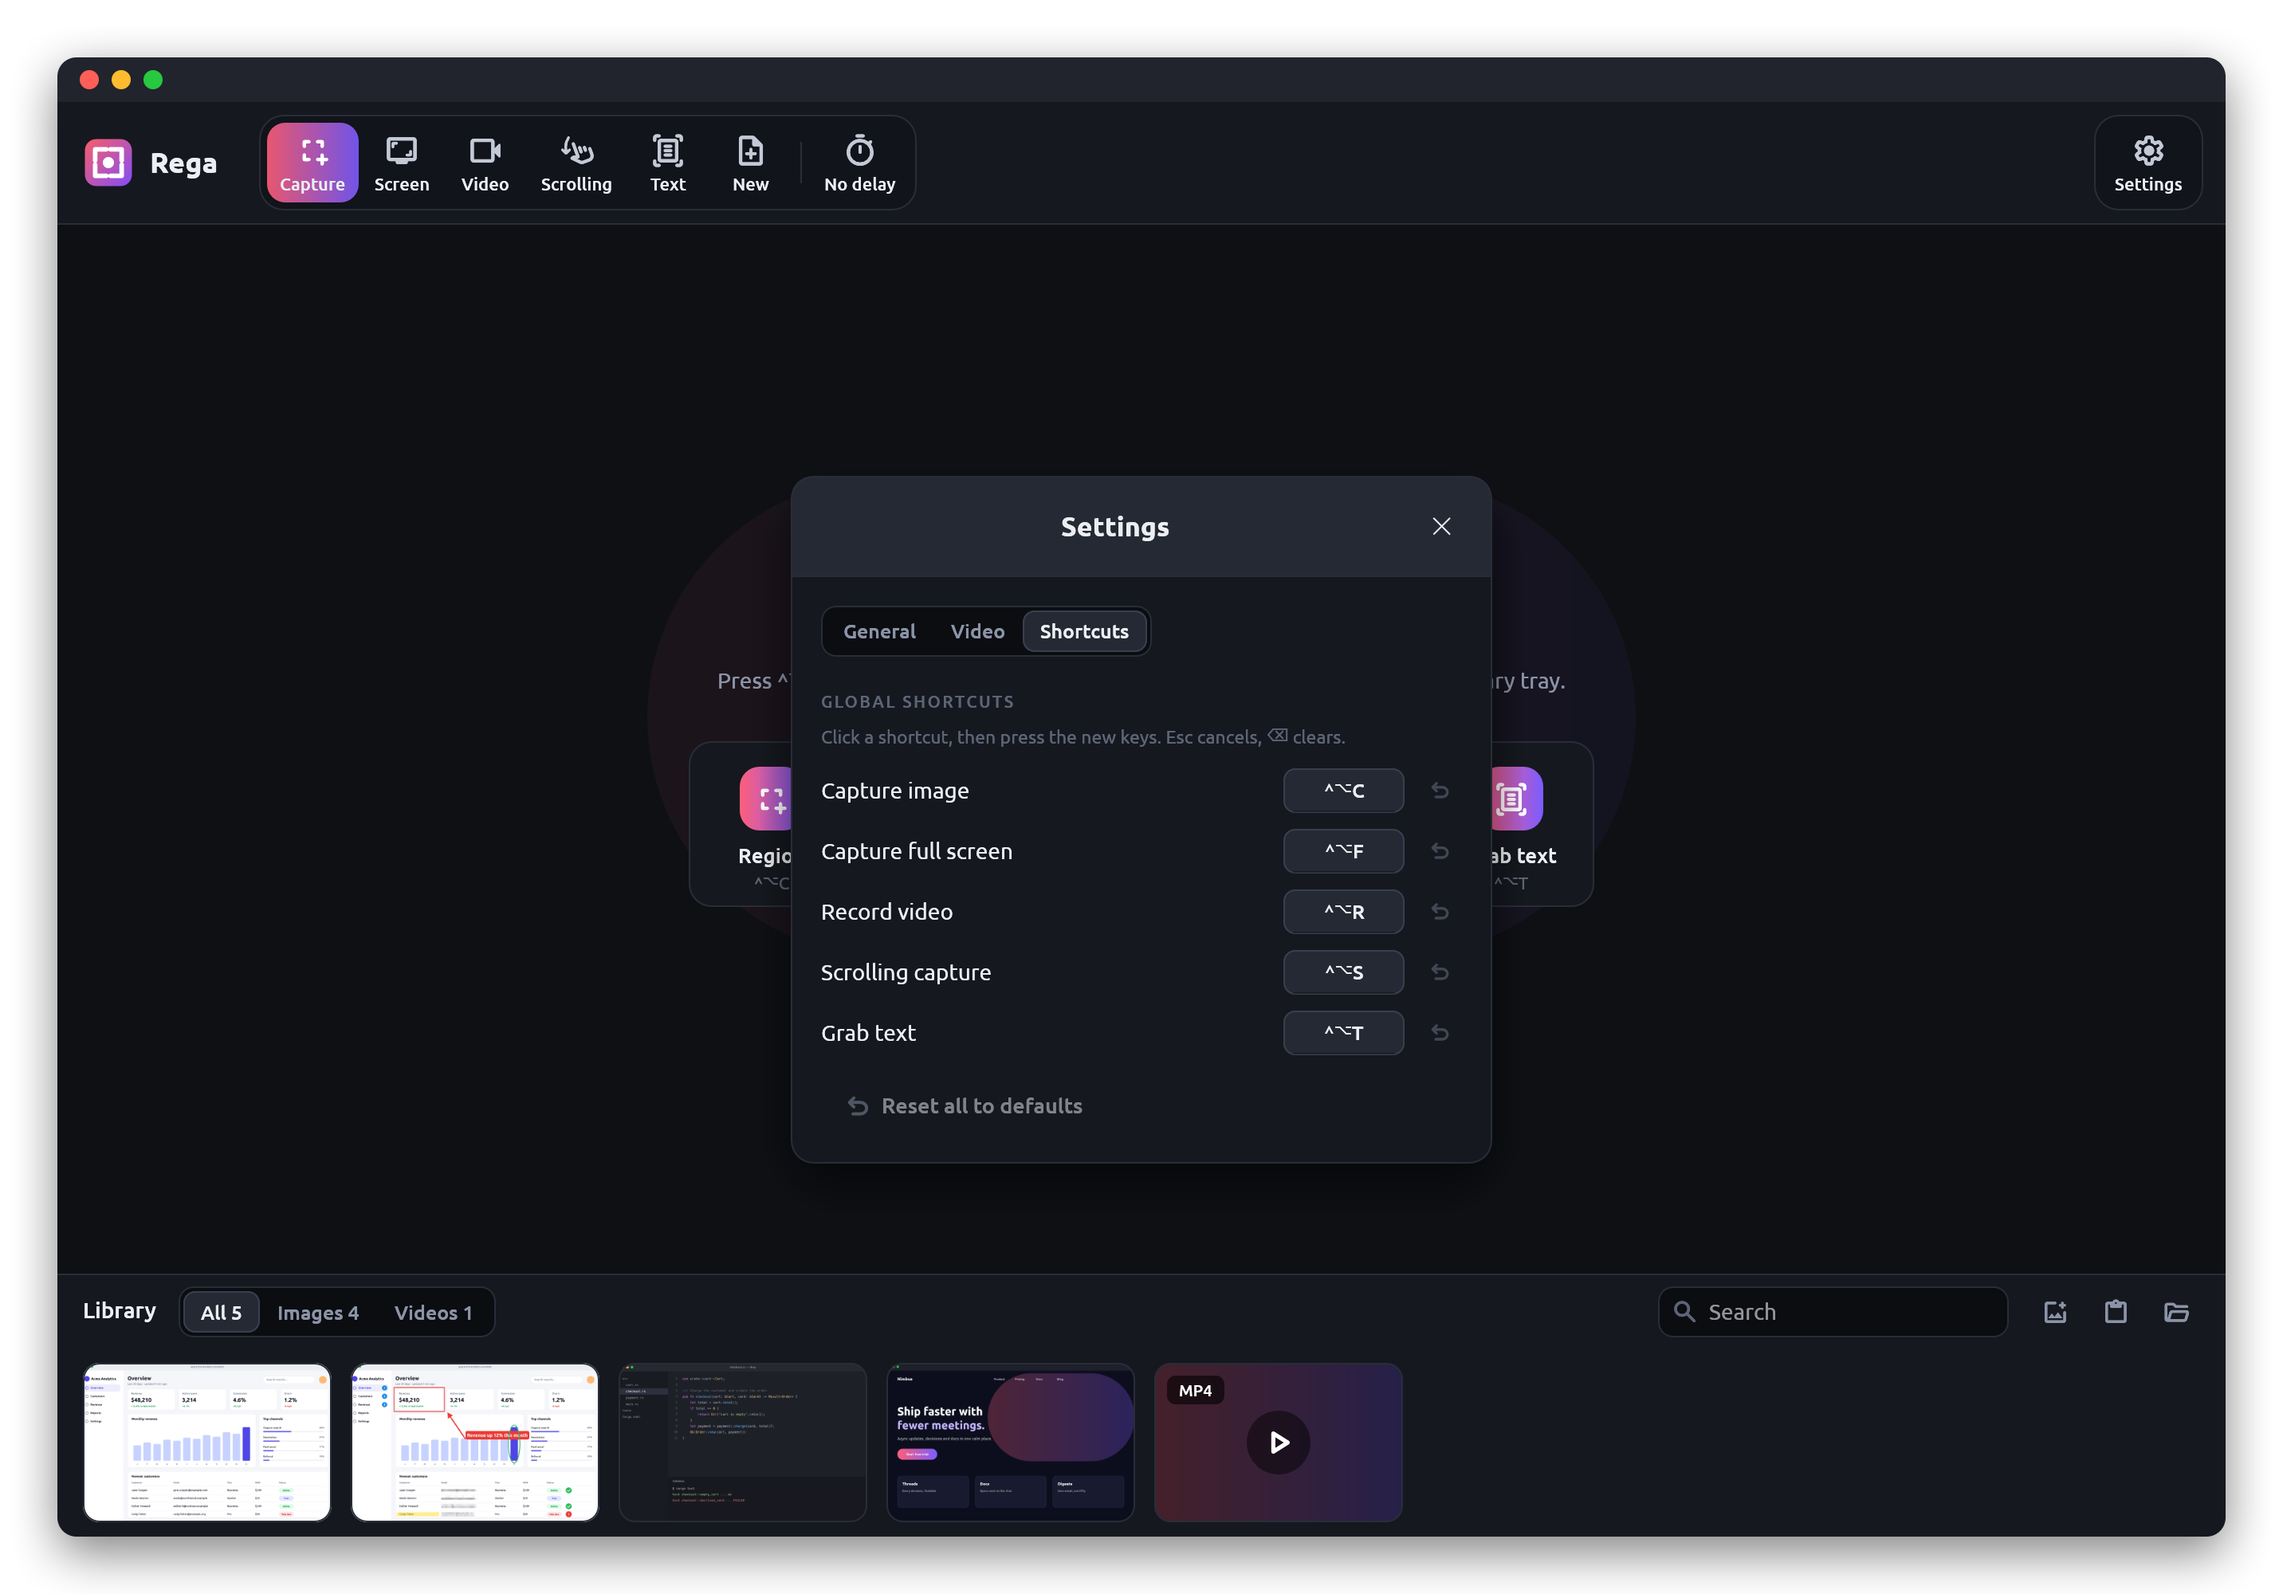
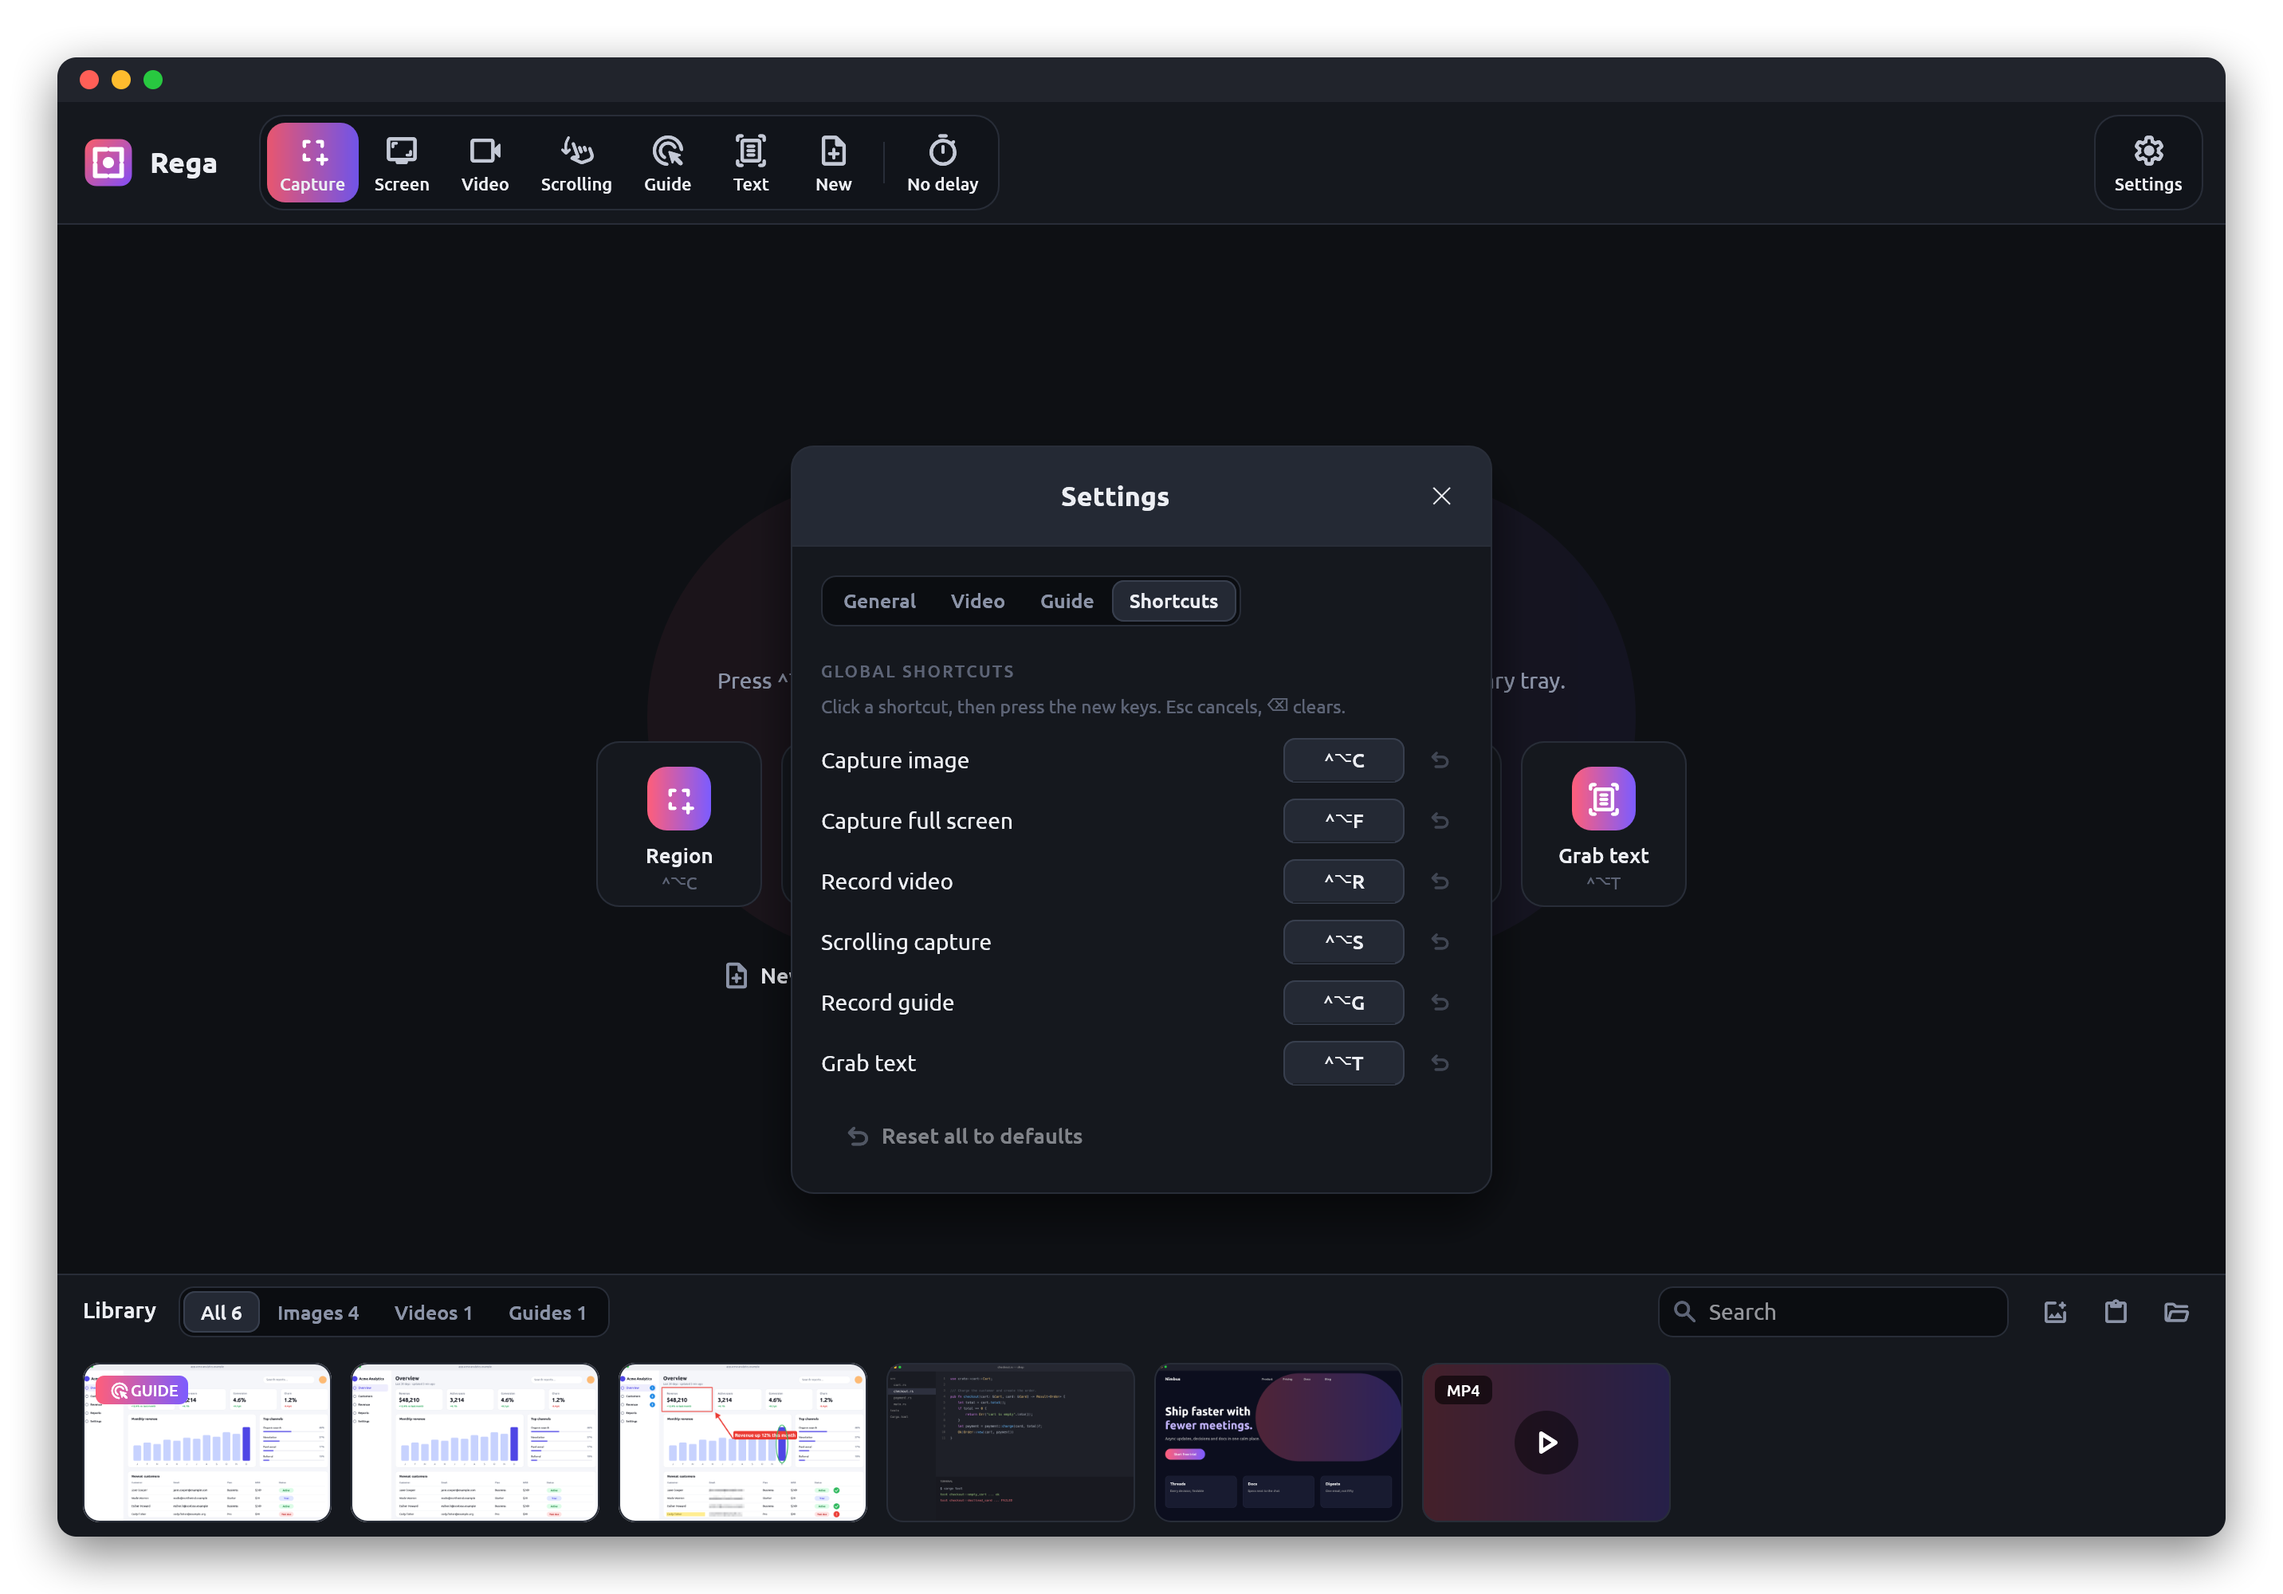
Update README screenshots for guides
Re-render every README screenshot with the current UI: the Guide button
and tile, the Guides library filter with a demo guide in the tray, the
Guide settings tab and the Record guide shortcut. The Settings shot shows
a typical library path instead of the test run's temporary folder.

The demo library now includes a guide, the screenshot run waits for
guide thumbnails too, and each test gets its own demo folder so tests
running side by side don't share and wipe one.

diff --git a/src/app/readme_shots.rs b/src/app/readme_shots.rs
@@ -476,8 +476,9 @@ fn settle(h: &mut Harness<'_, RegaApp>) {
     for _ in 0..80 {
         h.step();
         let app = h.state();
-        let images = app.library.iter().filter(|i| i.kind == crate::library::ItemKind::Image).count();
-        if app.thumbs.len() >= images {
+        use crate::library::ItemKind;
+        let pictured = app.library.iter().filter(|i| matches!(i.kind, ItemKind::Image | ItemKind::Guide)).count();
+        if app.thumbs.len() >= pictured {
             break;
         }
         std::thread::sleep(Duration::from_millis(40));
@@ -555,7 +556,10 @@ fn save(img: &RgbaImage, name: &str) {
 }
 
 fn demo_library() -> (PathBuf, RgbaImage) {
-    let dir = std::env::temp_dir().join(format!("rega-demo-{}", std::process::id()));
+    // One folder per call: tests run side by side in one process.
+    static CALLS: std::sync::atomic::AtomicUsize = std::sync::atomic::AtomicUsize::new(0);
+    let n = CALLS.fetch_add(1, std::sync::atomic::Ordering::Relaxed);
+    let dir = std::env::temp_dir().join(format!("rega-demo-{}-{n}", std::process::id()));
     let _ = std::fs::remove_dir_all(&dir);
     std::fs::create_dir_all(&dir).unwrap();
     let dashboard = render_ui(DASH, draw_dashboard);
@@ -577,7 +581,44 @@ fn demo_library() -> (PathBuf, RgbaImage) {
     let mp4 = dir.join("Rega 2026-11-02 at 09.30.00.mp4");
     let older = std::time::SystemTime::now() - Duration::from_secs(60);
     let _ = std::fs::File::options().write(true).open(&mp4).and_then(|f| f.set_modified(older));
+    std::thread::sleep(Duration::from_millis(20));
+    write_demo_guide(&dir, &dashboard, &code);
     (dir, dashboard)
+}
+
+/// The demo library's guide (its newest item).
+const DEMO_GUIDE: &str = "Rega 2026-11-02 at 10.00.00.html";
+
+/// A three-step guide through the demo dashboard and code editor.
+fn write_demo_guide(library: &Path, dashboard: &RgbaImage, code: &RgbaImage) {
+    use crate::guide::editor::GuideEditor;
+    use crate::guide::{Action, Button, Guide, Shot, Step};
+    let mut typed = dashboard.clone();
+    for (x, y) in (1500..1720).flat_map(|x| (60..84).map(move |y| (x, y))) {
+        typed.put_pixel(x, y, image::Rgba([30, 30, 30, 255]));
+    }
+    let step = |img: &RgbaImage, action: Action, marker: Option<[f32; 2]>, title: &str| Step {
+        shot: Shot::encode(&crate::guide::fit_capture(img.clone(), Some(1920))).unwrap(),
+        action,
+        marker,
+        marker_hidden: false,
+        title: title.into(),
+        note: String::new(),
+    };
+    let click = Action::Click { button: Button::Left, count: 1 };
+    let mut steps = vec![
+        step(dashboard, click.clone(), Some([0.075, 0.21]), "Open Customers"),
+        step(&typed, Action::Type { text: "Jane".into(), then: Some("Enter".into()) }, Some([0.80, 0.105]), "Type “Jane” and press Enter"),
+        step(code, click, Some([0.5, 0.4]), "Click here"),
+    ];
+    steps[0].note = "It's in the sidebar, under Overview.".into();
+    let mut guide = Guide::new("Find a customer".into(), steps);
+    guide.style.seconds = 5.0;
+    // GUIDE_MARKER=hand (etc.) shows the other shapes.
+    if let Ok(m) = std::env::var("GUIDE_MARKER") {
+        guide.style.marker = serde_json::from_value(serde_json::Value::String(m)).unwrap();
+    }
+    GuideEditor::new(&egui::Context::default(), library.join(DEMO_GUIDE), guide).save_now().unwrap();
 }
 
 fn desktop(dashboard: &RgbaImage, code: &RgbaImage) -> (RgbaImage, Vec<WinRect>) {
@@ -663,7 +704,11 @@ fn readme_screenshots() {
     save(&window_chrome(&h.render().unwrap()), "new-canvas.png");
     h.state_mut().show_new_dialog = false;
 
-    // 5. Settings (General and Shortcuts tabs).
+    // 5. Settings (General and Shortcuts tabs), showing the library where it
+    // would be on a Mac rather than this run's temporary folder. Marking the
+    // library freshly scanned keeps the tray from rescanning that path.
+    h.state_mut().settings.save_dir = PathBuf::from("/Users/you/Pictures/Rega");
+    h.state_mut().library_scanned = std::time::Instant::now();
     h.state_mut().show_settings = true;
     for _ in 0..6 {
         h.step();
@@ -946,38 +991,9 @@ fn write_guide_shots() {
 
 /// The demo guide open in the editor, rendered, and where its page was saved.
 fn guide_editor_shot() -> (RgbaImage, PathBuf) {
-    use crate::guide::{Action, Button, Guide, Shot, Step};
     use crate::guide::editor::GuideEditor;
-    let (library, dashboard) = demo_library();
-    let code = render_ui(CODE, draw_code_editor);
-    let mut typed = dashboard.clone();
-    for (x, y) in (1500..1720).flat_map(|x| (60..84).map(move |y| (x, y))) {
-        typed.put_pixel(x, y, image::Rgba([30, 30, 30, 255]));
-    }
-    let step = |img: &RgbaImage, action: Action, marker: Option<[f32; 2]>, title: &str| Step {
-        shot: Shot::encode(&crate::guide::fit_capture(img.clone(), Some(1920))).unwrap(),
-        action,
-        marker,
-        marker_hidden: false,
-        title: title.into(),
-        note: String::new(),
-    };
-    let click = Action::Click { button: Button::Left, count: 1 };
-    let mut steps = vec![
-        step(&dashboard, click.clone(), Some([0.075, 0.21]), "Open Customers"),
-        step(&typed, Action::Type { text: "Jane".into(), then: Some("Enter".into()) }, Some([0.80, 0.105]), "Type “Jane” and press Enter"),
-        step(&code, click, Some([0.5, 0.4]), "Click here"),
-    ];
-    steps[0].note = "It's in the sidebar, under Overview.".into();
-    let path = library.join("Rega 2026-11-02 at 10.00.00.html");
-    let mut guide = Guide::new("Find a customer".into(), steps);
-    guide.style.seconds = 5.0;
-    // GUIDE_MARKER=hand (etc.) shows the other shapes.
-    if let Ok(m) = std::env::var("GUIDE_MARKER") {
-        guide.style.marker = serde_json::from_value(serde_json::Value::String(m)).unwrap();
-    }
-    let ctx = egui::Context::default();
-    GuideEditor::new(&ctx, path.clone(), guide.clone()).save_now().unwrap();
+    let (library, _) = demo_library();
+    let path = library.join(DEMO_GUIDE);
     let page = path.clone();
     let mut h = app_harness(APP_SIZE, move |ctx| {
         let mut app = RegaApp::demo(ctx, library);
